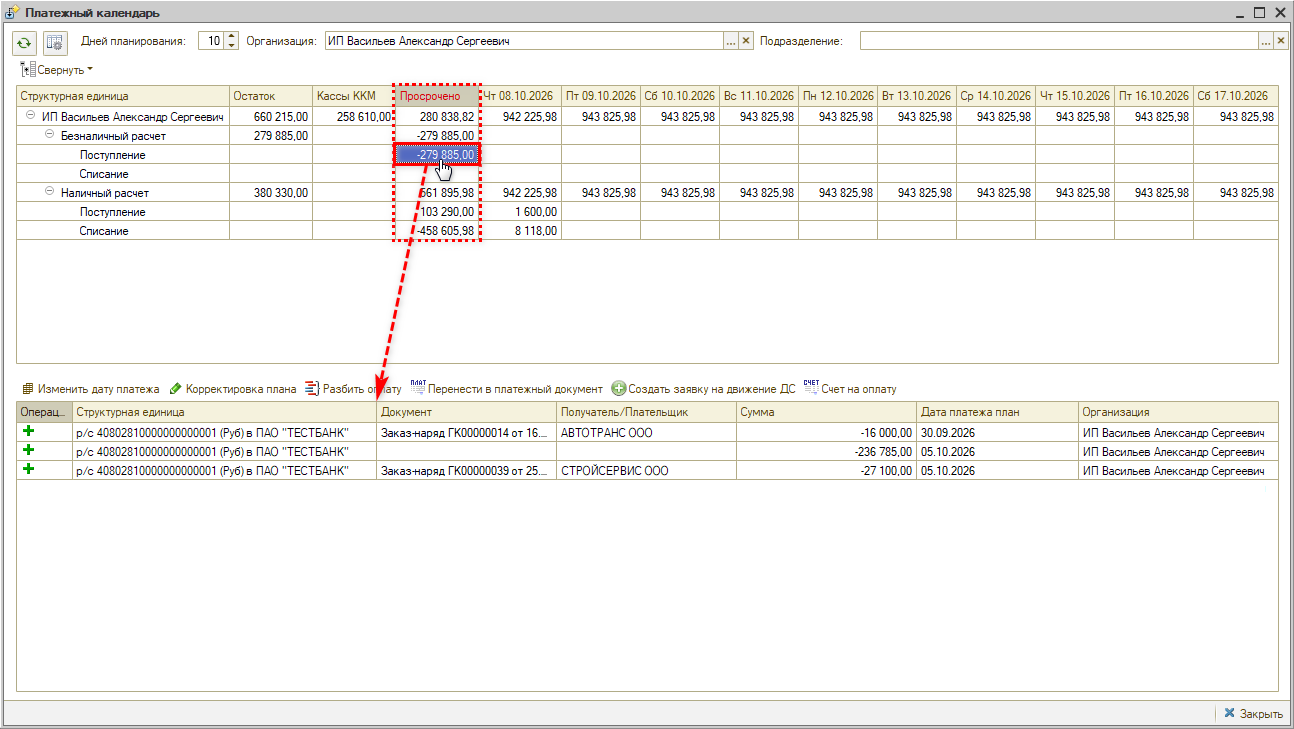
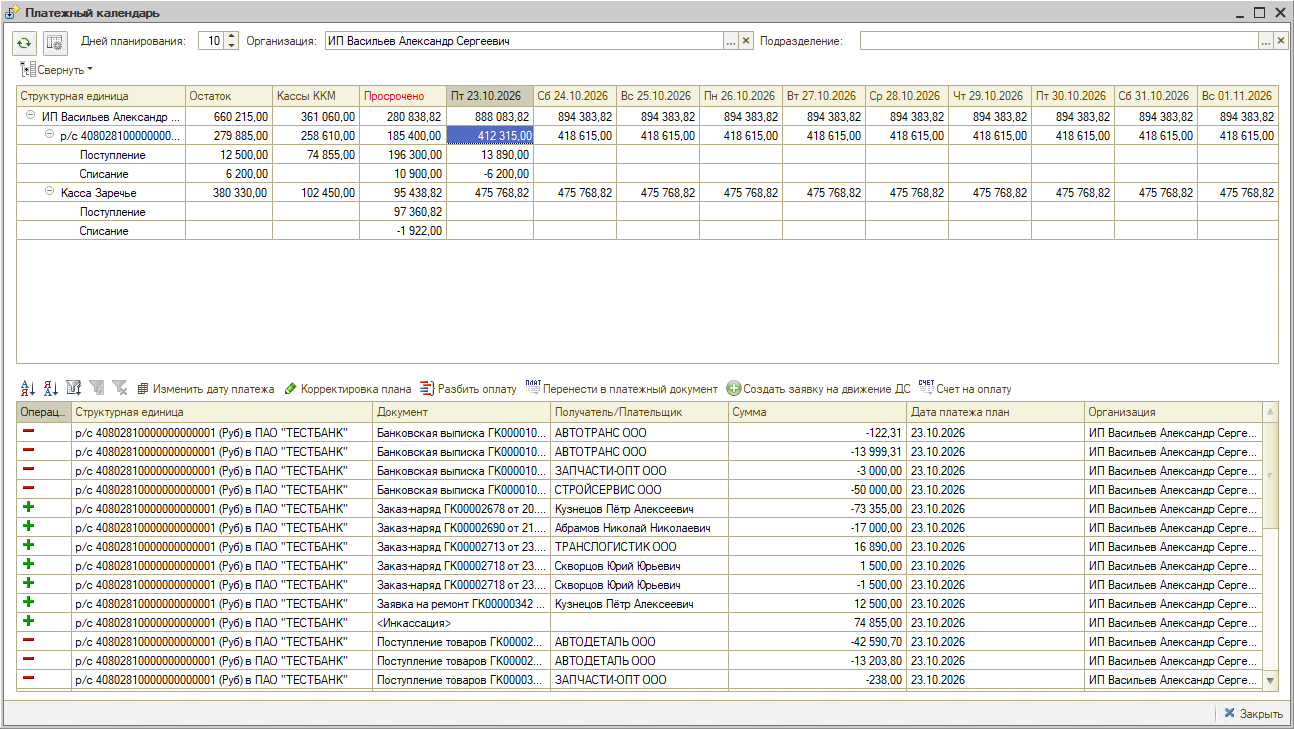
«Платежный календарь» (Katya): скриншот 06 (расшифровка) заменен новым примером, данные обезличены и приведены к остальным скриншотам (организация, суммы); комментарий о строках без документа уточнен (Катя, 23.10.2026).

diff --git a/articles/5S AUTO/Учет взаиморасчетов/Платежный календарь/platezhnyy-kalendar.md b/articles/5S AUTO/Учет взаиморасчетов/Платежный календарь/platezhnyy-kalendar.md
@@ -193,7 +193,7 @@
 
 ![Расшифровка выбранной ячейки календаря](attachments/06-rasshifrovka-yachejki.png)
 
-> 🛠 Комментарий для черновика: *Строки без документа в расшифровке (с получателем «Розничные магазины» или без получателя) – ошибка, исправят в обновлении. На скриншоте 06 одна такая строка – после обновления переснять.*
+> 🛠 Комментарий для черновика: *Строки без документа в расшифровке (с получателем «Розничные магазины» или без получателя) – ошибка, исправят в обновлении. На скриншоте 06 строка «<Инкассация>» без получателя – возможно, такая же; после исправления проверить и при необходимости переснять.*
 
 Для строки расшифровки доступны операции:
 
